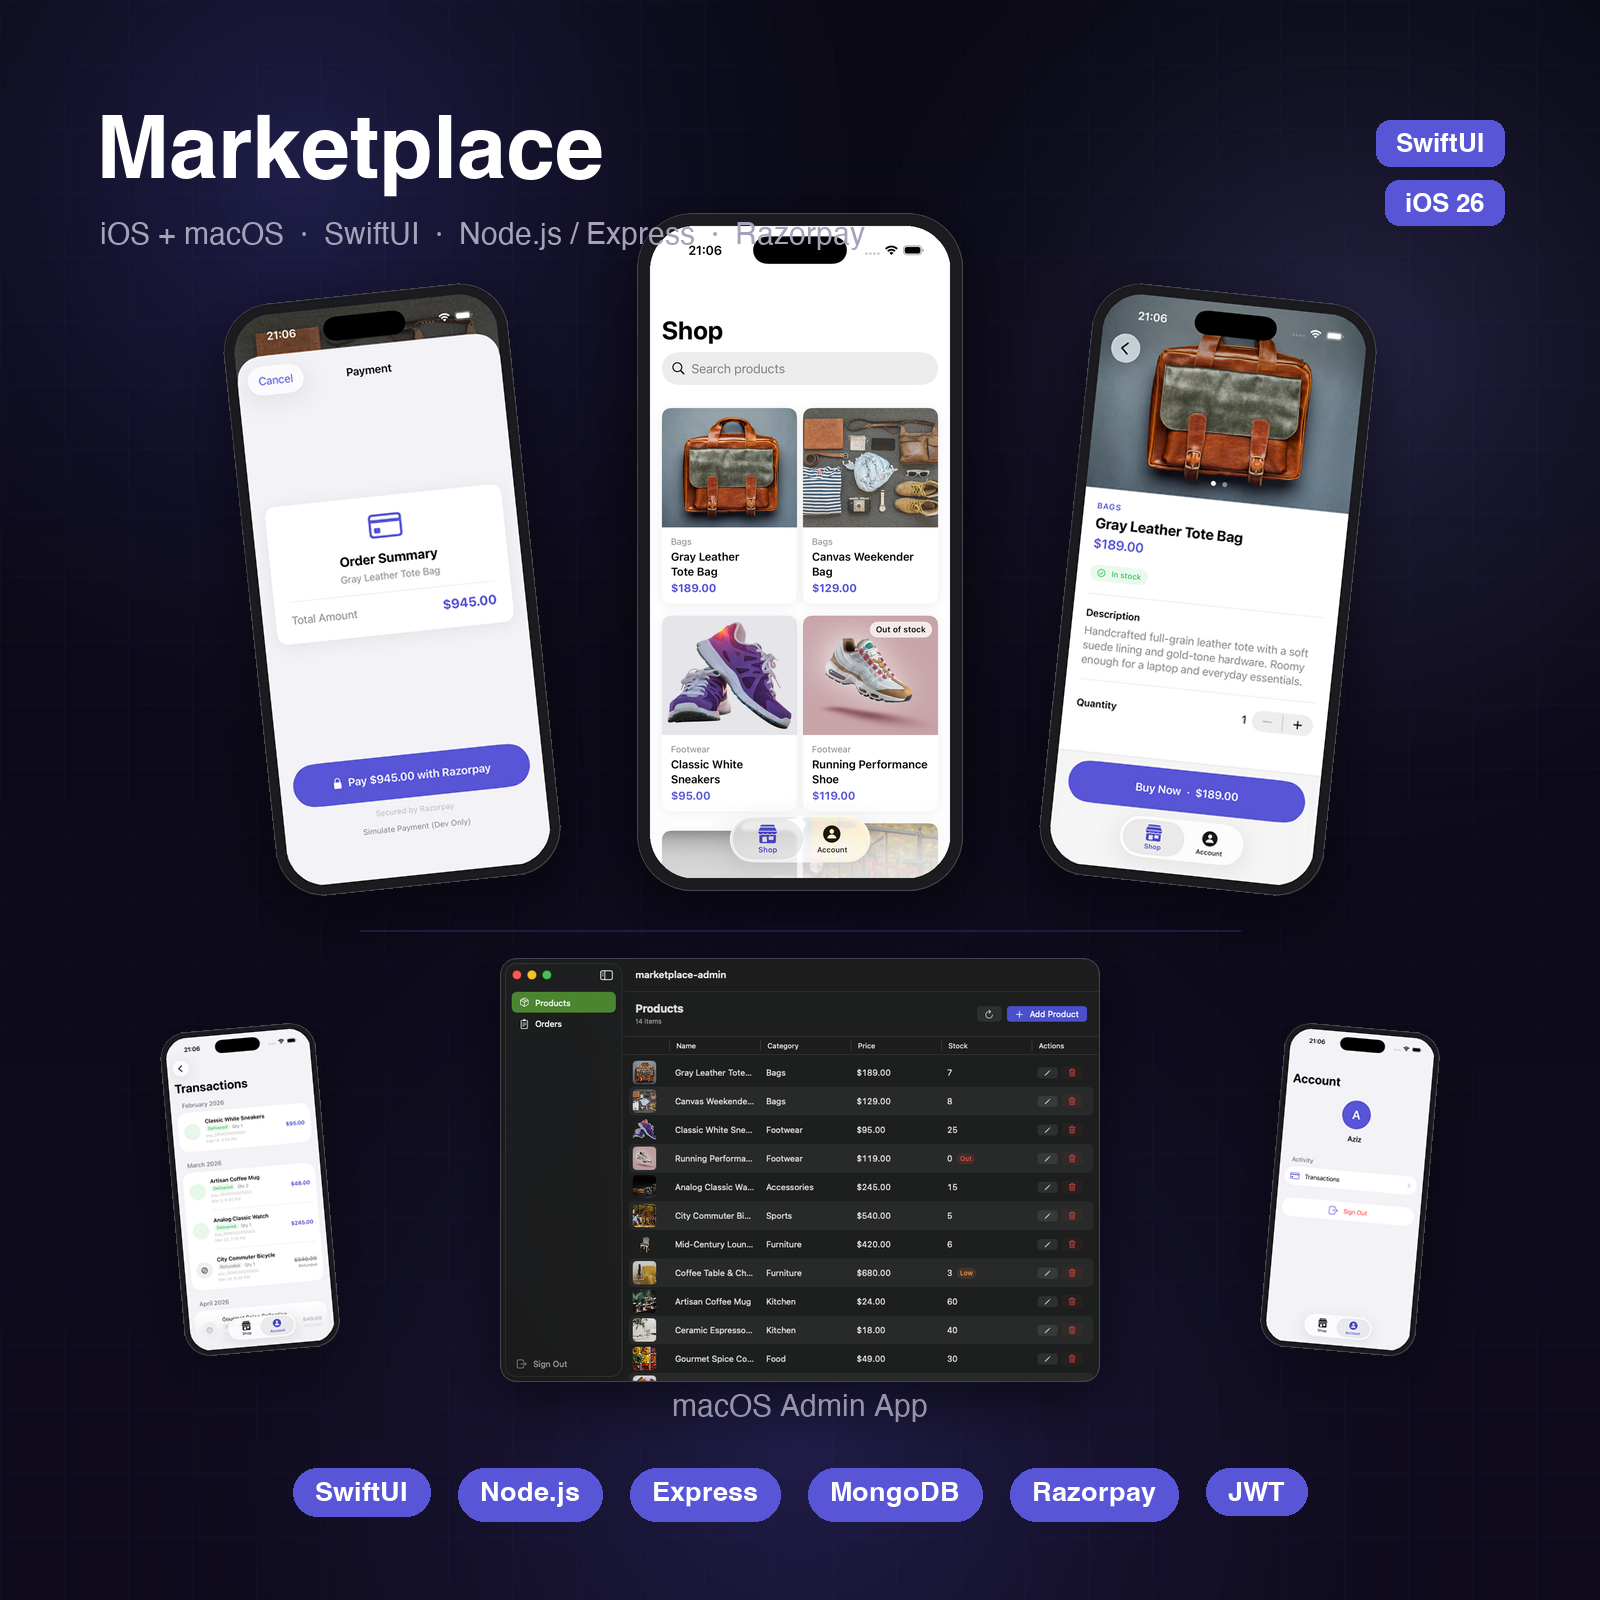
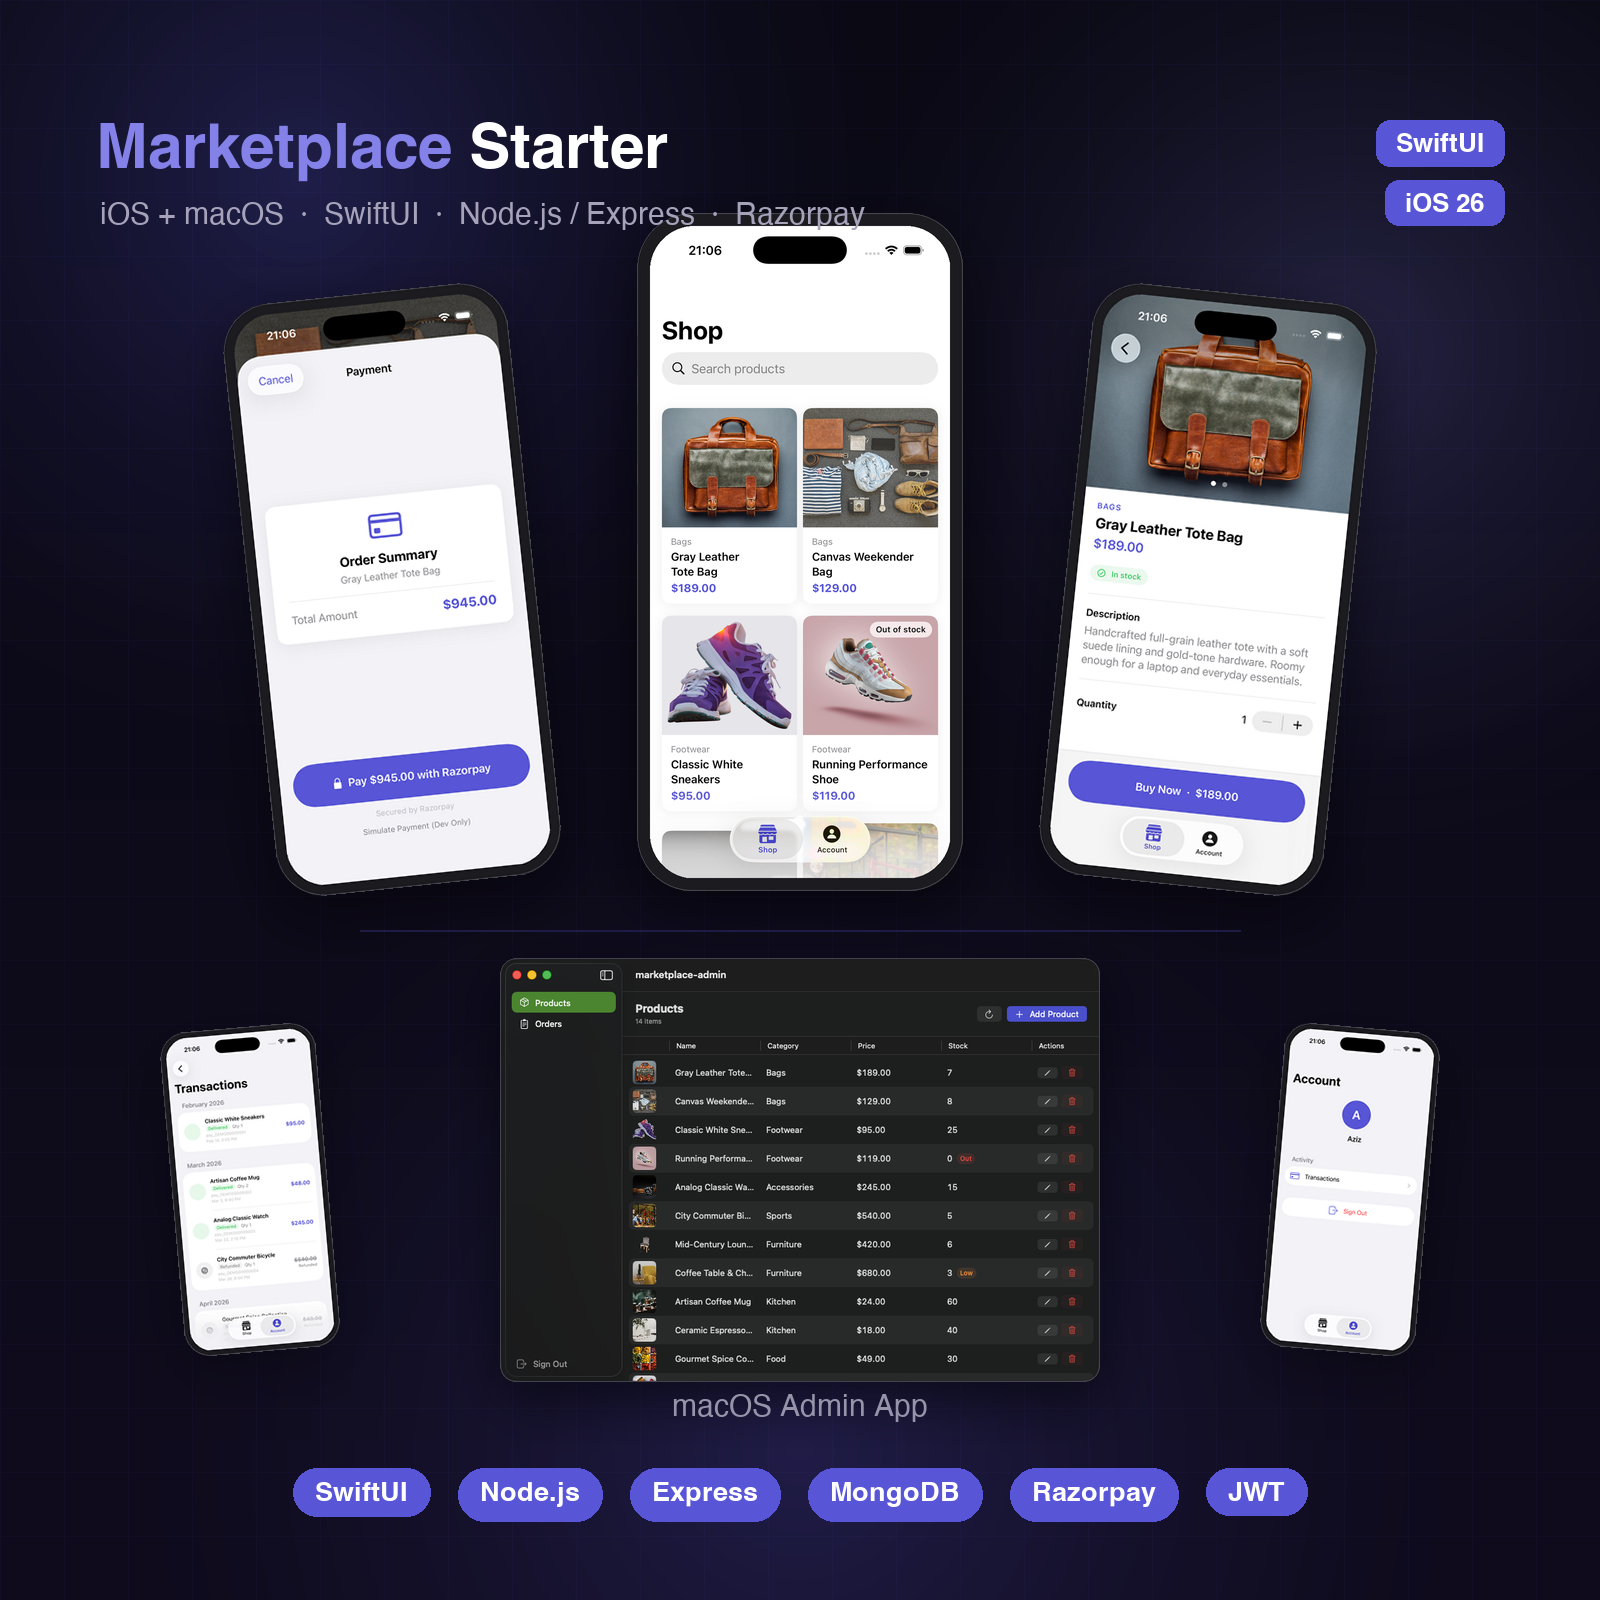
Rename Marketplace to 'Marketplace Starter'; refresh bio with Slate + Marketplace Starter and fix bio links

Changed region(s): [[0.0625, 0.0625, 0.5625, 0.1562]]

diff --git a/index.html b/index.html
@@ -100,25 +100,27 @@
                         </div>
                         <div class="row align-items-center">
                             <div class="col-12">
-                             <p>👋 I've spent the last 5+ years building iOS apps that ship and stay in the App Store. Video streaming, logistics, e-commerce, social, delivery. I've worked on all of them, usually owning the iOS side from the first screen to the release build.</p>
+                             <p>👋 I've spent the last 5+ years building iOS apps that ship and stay in the App Store. Video streaming, logistics, e-commerce, fintech, social, delivery, and AI. I've worked on all of them, usually owning the iOS side from the first screen to the release build - and increasingly the full stack and backend behind it too.</p>
                   <p>Here's what I've shipped:</p>
                   <ul class="bio-list">
-                    <li><a href="portfolio/projects/horjun.html">📺 Horjun</a> - Subscription video streaming with live TV, on-demand content and offline downloads. AVPlayer + VLCKit, SwiftUI.</li>
-                    <li><a href="portfolio/projects/elog.html">🚛 Elog AI</a> - ELD app for commercial trucking. Built to FMCSA rules with IOSiX SDK hardware integration, offline-first GRDB storage, Bluetooth, CoreLocation.</li>
-                    <li><a href="portfolio/projects/salam-messenger.html">💬 Salam Messenger</a> - Social app with real-time chat, posts, stories, voice messages and push notifications.</li>
-                    <li><a href="portfolio/projects/salam-news.html">📰 SalamNews</a> - Multilingual news app with categories, bookmarks and localization.</li>
-                    <li><a href="portfolio/projects/salam-express.html">🚚 Salam Express</a> - Cargo delivery app with live order tracking and driver management.</li>
-                    <li><a href="portfolio/projects/altyn-yoda.html">📦 Altyn Yoda</a> - Courier delivery app with real-time tracking and route management.</li>
-                    <li><a href="portfolio/projects/meninki.html">🛒 Meninki</a> - Marketplace MVP with Stripe payments and Firebase backend. Live with real users.</li>
-                    <li><a href="portfolio/projects/miu-love.html">💕 MIU LOVE</a> - Online store with product catalog, cart and checkout flow.</li>
-                    <li><a href="portfolio/projects/kinestex.html">🤸 KinesteX</a> - AI fitness app. Joined mid-development, redesigned the UI and added new features to a live codebase.</li>
-                    <li><a href="portfolio/projects/clik.html">📱 Cl:k</a> - Social content-sharing app. Redesigned the story feed, added GIF and voice note chat, link preview cards and Share Extension.</li>
-                    <li><a href="portfolio/projects/ytdownloader.html">⬇️ YT Downloader</a> - Video downloader with background downloads and media library.</li>
-                    <li><a href="portfolio/projects/imessenger.html">💬 iMessenger</a> - Messaging app with real-time chat and media sharing.</li>
-                    <li><a href="portfolio/projects/content-transfer.html">🔄 Content Transfer</a> - Smart Share app for transferring content between devices.</li>
-                    <li><a href="portfolio/projects/live-concert.html">🎵 Live Concert</a> - Live music streaming app with event listings and ticketing.</li>
+                    <li><a href="projects/slate.html">💸 Slate</a> - AI finance tracker. Log expenses by natural language or voice, parsed by an LLM (Groq). Offline-first with SwiftData and iCloud sync. Swift 6, SwiftUI.</li>
+                    <li><a href="projects/marketplace.html">🛍️ Marketplace Starter</a> - Full-stack commerce starter: SwiftUI iOS buyer app, a macOS admin app, and a Node.js/Express/MongoDB API with Razorpay payments, JWT auth and Cloudinary.</li>
+                    <li><a href="projects/horjun.html">📺 Horjun</a> - Subscription video streaming with live TV, on-demand content and offline downloads. AVPlayer + VLCKit, SwiftUI.</li>
+                    <li><a href="projects/elog.html">🚛 Elog AI</a> - ELD app for commercial trucking. Built to FMCSA rules with IOSiX SDK hardware integration, offline-first GRDB storage, Bluetooth, CoreLocation.</li>
+                    <li><a href="projects/salam-messenger.html">💬 Salam Messenger</a> - Social app with real-time chat, posts, stories, voice messages and push notifications.</li>
+                    <li><a href="projects/salam-news.html">📰 SalamNews</a> - Multilingual news app with categories, bookmarks and localization.</li>
+                    <li><a href="projects/salam-express.html">🚚 Salam Express</a> - Cargo delivery app with live order tracking and driver management.</li>
+                    <li><a href="projects/altyn-yoda.html">📦 Altyn Yoda</a> - Courier delivery app with real-time tracking and route management.</li>
+                    <li><a href="projects/meninki.html">🛒 Meninki</a> - Marketplace MVP with Stripe payments and Firebase backend. Live with real users.</li>
+                    <li><a href="projects/miu-love.html">💕 MIU LOVE</a> - Online store with product catalog, cart and checkout flow.</li>
+                    <li><a href="projects/kinestex.html">🤸 KinesteX</a> - AI fitness app. Joined mid-development, redesigned the UI and added new features to a live codebase.</li>
+                    <li><a href="projects/clik.html">📱 Cl:k</a> - Social content-sharing app. Redesigned the story feed, added GIF and voice note chat, link preview cards and Share Extension.</li>
+                    <li><a href="projects/ytdownloader.html">⬇️ YT Downloader</a> - Video downloader with background downloads and media library.</li>
+                    <li><a href="projects/imessenger.html">💬 iMessenger</a> - Messaging app with real-time chat and media sharing.</li>
+                    <li><a href="projects/content-transfer.html">🔄 Content Transfer</a> - Smart Share app for transferring content between devices.</li>
+                    <li><a href="projects/live-concert.html">🎵 Live Concert</a> - Live music streaming app with event listings and ticketing.</li>
                   </ul>
-                  <p>If you need a full MVP, I can take it the whole way: the app, a Firebase backend, payments, and getting it through App Store review. I work mostly in Swift with SwiftUI and UIKit, and I'm comfortable developing for multiple Apple platforms, including iPadOS, macOS, and watchOS.</p>
+                  <p>If you need a full MVP, I can take it the whole way: the app, a backend (Firebase or a Node.js/Express + MongoDB API), payments, and getting it through App Store review. I also integrate AI and LLMs - like natural-language parsing - and work across multiple Apple platforms, including iPadOS, macOS, and watchOS. I work mostly in Swift with SwiftUI and UIKit.</p>
                   <p>I write code that the next person can actually read and extend, I keep you updated throughout the process, and I don't vanish once the project is delivered.</p>
                   <p>If that sounds like what you need, send me a message and tell me about your project.</p>
                               <a class="btn btn-upwork" href="https://www.upwork.com/freelancers/~016a583c9e00fc71bb"><svg xmlns="http://www.w3.org/2000/svg" viewBox="0 0 50 50" width="20" height="20" fill="currentColor" style="vertical-align:middle;margin-right:6px"><path d="M 1 9 C 0.448 9 0 9.448 0 10 L 0 24.115234 C 0 30.276234 4.6829844 35.631469 10.833984 35.980469 C 16.730984 36.314469 21.747875 32.176391 22.796875 26.650391 C 23.366875 27.420391 23.94625 28.135969 24.53125 28.792969 L 21.001953 43.771484 C 20.932953 44.069484 21.002406 44.380094 21.191406 44.621094 C 21.382406 44.859094 21.670563 45 21.976562 45 L 27.095703 45 C 27.559703 45 27.959406 44.687328 28.066406 44.236328 C 28.687406 41.615328 29.660969 37.508156 30.542969 33.785156 L 31.453125 34.3125 C 33.618125 35.4335 35.815 36 38 36 C 45.192 36 50.926 29.641 49.875 22.25 C 49.179 17.354 45.414078 13.318344 40.580078 12.277344 C 34.951078 11.064344 29.525359 13.949141 27.193359 18.744141 C 27.193359 18.744141 26.934562 19.318578 26.726562 19.892578 C 25.076563 17.046578 24.107609 14.094078 23.599609 11.955078 C 23.414609 11.175078 23.137469 9.762875 23.105469 9.671875 C 22.966469 9.268875 22.589109 9 22.162109 9 L 17 9 C 16.448 9 16 9.448 16 10 L 16 24.300781 C 16 26.649781 14.287219 28.750516 11.949219 28.978516 C 9.2672187 29.240516 7 27.13 7 24.5 L 7 10 C 7 9.448 6.552 9 6 9 L 1 9 z M 38 19 C 40.757 19 43 21.243 43 24 C 43 26.757 40.757 29 38 29 C 35.775 29 33.713531 27.658281 32.269531 26.488281 C 32.796531 24.263281 33.15025 22.773047 33.15625 22.748047 C 33.72425 20.541047 35.717 19 38 19 z"/></svg>Available for Work</a>
@@ -404,9 +406,9 @@
                                 <div class="portfolio-wrap">
                                     <figure class="btn-two" style="--accent:#5856D6;--accent-rgb:88,86,214">
                                         <a href="projects/marketplace.html"><img src="img/portfolio-15.png" class="img-fluid" alt=""></a>
-                                        <a href="img/portfolio-15.png" class="link-preview" data-lightbox="portfolio" data-title="Marketplace - iOS &amp; macOS Commerce App" title="Preview"><i class="fa fa-eye"></i></a>
+                                        <a href="img/portfolio-15.png" class="link-preview" data-lightbox="portfolio" data-title="Marketplace Starter - iOS &amp; macOS Commerce" title="Preview"><i class="fa fa-eye"></i></a>
                                         <a href="https://github.com/azizbibitov/nodejs-express-mongodb-razorpay-marketplace" class="link-github" title="GitHub"><i class="fab fa-github"></i></a>
-                                        <a class="portfolio-title" href="projects/marketplace.html">Marketplace <span>iOS &amp; macOS</span></a>
+                                        <a class="portfolio-title" href="projects/marketplace.html">Marketplace Starter <span>iOS &amp; macOS</span></a>
                                     </figure>
                                 </div>
                             </div>

diff --git a/projects/marketplace.html b/projects/marketplace.html
@@ -2,7 +2,7 @@
 <html lang="en">
 <head>
     <meta charset="utf-8">
-    <title>Marketplace — Full-Stack iOS + macOS Commerce App by Aziz Bibitov</title>
+    <title>Marketplace Starter - Full-Stack iOS + macOS Commerce by Aziz Bibitov</title>
     <meta name="viewport" content="width=device-width, initial-scale=1.0">
     <link href="https://fonts.googleapis.com/css2?family=Inter:wght@300;400;500;600;700;800&display=swap" rel="stylesheet">
     <link href="https://cdnjs.cloudflare.com/ajax/libs/font-awesome/5.10.0/css/all.min.css" rel="stylesheet">
@@ -88,8 +88,8 @@
         @keyframes pulse { 0%,100%{opacity:1;transform:scale(1)} 50%{opacity:0.5;transform:scale(0.8)} }
 
         .hero h1 {
-            font-size: clamp(42px, 7vw, 80px); font-weight: 800;
-            letter-spacing: -3px; line-height: 1; color: var(--white); margin-bottom: 20px;
+            font-size: clamp(36px, 6vw, 64px); font-weight: 800;
+            letter-spacing: -2px; line-height: 1.05; color: var(--white); margin-bottom: 20px;
         }
         .hero h1 span { color: var(--accent-bright); }
         .hero p { font-size: 18px; color: var(--muted); max-width: 560px; margin: 0 auto 40px; line-height: 1.7; }
@@ -290,7 +290,7 @@
 <nav>
     <a href="../index.html#portfolio" class="nav-logo">
         <span class="m-icon"><img src="../img/marketplace-icon.png" alt="" style="width:100%;height:100%;border-radius:inherit;object-fit:cover;display:block;"></span>
-        Marketplace
+        Marketplace Starter
     </a>
     <a href="../index.html#portfolio" class="nav-back">
         <i class="fa fa-arrow-left"></i> Back to Portfolio
@@ -302,8 +302,8 @@
     <div class="hero-bg"></div>
     <div class="hero-grid"></div>
     <div class="hero-badge"><span class="dot"></span> iOS + macOS · Full Stack</div>
-    <h1><span>Marketplace</span></h1>
-    <p>A full-stack commerce platform — a native SwiftUI iOS buyer app, a macOS admin app, and a Node.js / Express API with Razorpay payments, JWT auth, and Cloudinary image hosting.</p>
+    <h1><span>Marketplace</span> Starter</h1>
+    <p>A full-stack commerce starter - a native SwiftUI iOS buyer app, a macOS admin app, and a Node.js / Express API with Razorpay payments, JWT auth, and Cloudinary image hosting. A clean foundation to build a real store on.</p>
     <div class="hero-cta">
         <a href="https://github.com/azizbibitov/nodejs-express-mongodb-razorpay-marketplace" class="btn-primary" target="_blank" rel="noopener">
             <i class="fab fa-github"></i> View on GitHub